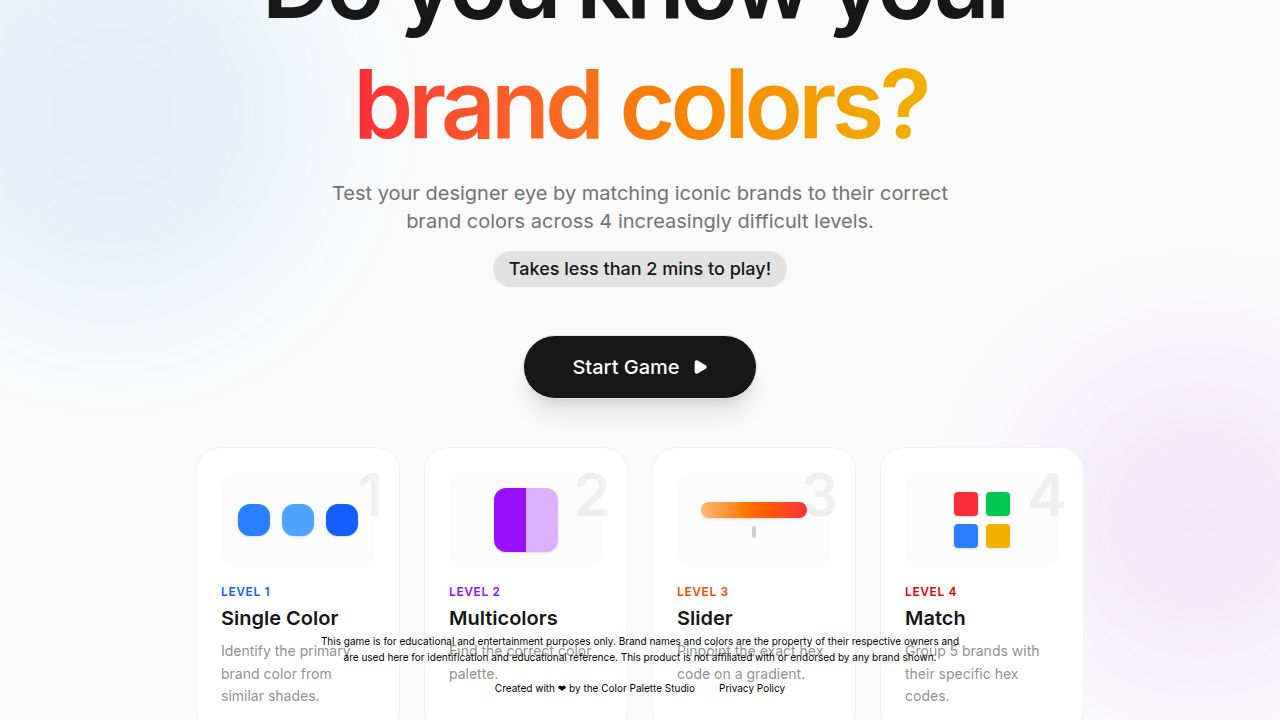
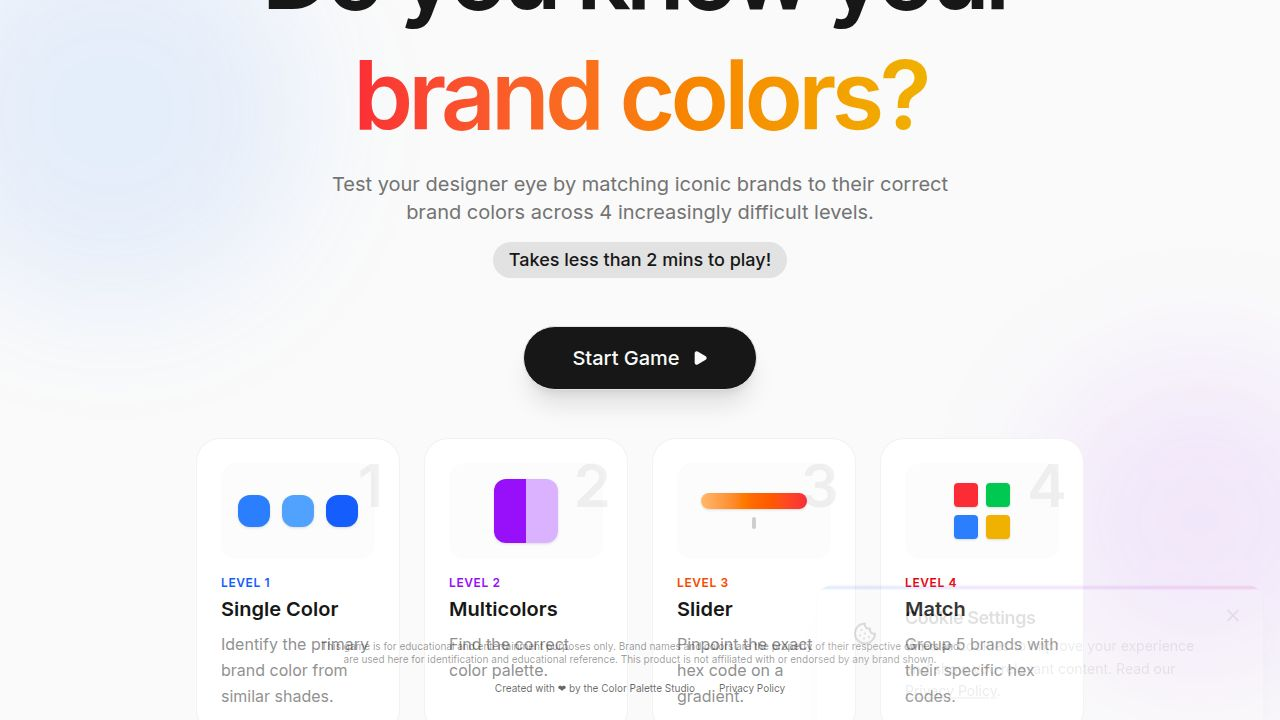
Adjust game layout for better display on laptop screens
Update text sizes, spacing, and button dimensions to optimize the game's appearance and usability on laptop displays.

Replit-Commit-Author: Agent
Replit-Commit-Session-Id: 7b4d5355-05d0-4bf4-9112-6de2160751e4
Replit-Commit-Checkpoint-Type: full_checkpoint
Replit-Commit-Event-Id: 854a3abb-9a40-4609-beec-3c17257e5483
Replit-Commit-Screenshot-Url: https://storage.googleapis.com/screenshot-production-us-central1/97f1e4b2-06ea-4ff0-b27d-b8547674b3d4/7b4d5355-05d0-4bf4-9112-6de2160751e4/GByG4RB
Replit-Helium-Checkpoint-Created: true

diff --git a/client/src/pages/home.tsx b/client/src/pages/home.tsx
@@ -321,34 +321,34 @@ export default function Home() {
             initial={{ opacity: 0, scale: 0.95 }}
             animate={{ opacity: 1, scale: 1 }}
             exit={{ opacity: 0, y: -20 }}
-            className="text-center flex flex-col h-full justify-center gap-4 md:gap-12"
+            className="text-center flex flex-col h-full justify-center gap-4 md:gap-8 xl:gap-12"
           >
-            <div className="space-y-2 md:space-y-4 shrink-0">
-              <h1 className="text-4xl md:text-8xl font-display font-bold tracking-tighter text-foreground leading-tight">
+            <div className="space-y-2 md:space-y-3 xl:space-y-4 shrink-0">
+              <h1 className="text-4xl md:text-6xl xl:text-8xl font-display font-bold tracking-tighter text-foreground leading-tight">
                 Do you know your <br/>
                 <span className="text-transparent bg-clip-text bg-gradient-to-r from-red-500 via-yellow-500 via-green-500 via-blue-500 to-purple-500 animate-gradient-x bg-[length:200%_200%]">brand colors?</span>
               </h1>
-              <p className="text-base md:text-xl text-muted-foreground max-w-2xl mx-auto px-4">
+              <p className="text-base md:text-lg xl:text-xl text-muted-foreground max-w-2xl mx-auto px-4">
                 Test your designer eye by matching iconic brands to their correct brand colors across 4 increasingly difficult levels.
-                <span className="block mt-2 md:mt-4 text-sm md:text-lg font-medium text-primary bg-primary/10 w-fit mx-auto px-4 py-1 rounded-full">
+                <span className="block mt-2 md:mt-3 xl:mt-4 text-sm md:text-base xl:text-lg font-medium text-primary bg-primary/10 w-fit mx-auto px-4 py-1 rounded-full">
                     Takes less than 2 mins to play!
                 </span>
               </p>
             </div>
 
             <div className="flex justify-center shrink-0">
-              <Button size="lg" onClick={startGame} className="h-12 md:h-16 px-8 md:px-12 text-lg md:text-xl rounded-full gap-3 shadow-xl hover:scale-105 transition-transform">
+              <Button size="lg" onClick={startGame} className="h-12 md:h-14 xl:h-16 px-8 md:px-10 xl:px-12 text-lg md:text-xl rounded-full gap-3 shadow-xl hover:scale-105 transition-transform">
                 Start Game <Play className="w-5 h-5 md:w-6 md:h-6 fill-current" />
               </Button>
             </div>
 
-            <div className="grid grid-cols-2 md:grid-cols-4 gap-2 md:gap-6 max-w-6xl mx-auto text-left text-sm text-muted-foreground overflow-y-auto md:overflow-visible px-1 flex-1 md:flex-none min-h-0 md:min-h-auto w-full">
+            <div className="grid grid-cols-2 md:grid-cols-4 gap-2 md:gap-4 xl:gap-6 max-w-6xl mx-auto text-left text-sm text-muted-foreground overflow-y-auto md:overflow-visible px-1 flex-1 md:flex-none min-h-0 md:min-h-auto w-full">
                {/* Level 1 Card */}
-               <div className="flex flex-col gap-1 md:gap-4 p-2 md:p-6 rounded-2xl md:rounded-3xl bg-card border border-border/50 hover:border-primary/20 hover:shadow-xl hover:-translate-y-1 transition-all duration-300 group cursor-default h-full relative overflow-hidden">
-                  <div className="absolute top-0 right-0 p-2 md:p-4 opacity-10 font-display font-bold text-4xl md:text-6xl group-hover:opacity-20 transition-opacity">1</div>
+               <div className="flex flex-col gap-1 md:gap-3 xl:gap-4 p-2 md:p-5 xl:p-6 rounded-2xl md:rounded-3xl bg-card border border-border/50 hover:border-primary/20 hover:shadow-xl hover:-translate-y-1 transition-all duration-300 group cursor-default h-full relative overflow-hidden">
+                  <div className="absolute top-0 right-0 p-2 md:p-4 opacity-10 font-display font-bold text-4xl md:text-5xl xl:text-6xl group-hover:opacity-20 transition-opacity">1</div>
                   
                   {/* Visual: 3 Similar Shades */}
-                  <div className="h-16 md:h-24 w-full bg-secondary/30 rounded-xl md:rounded-2xl flex items-center justify-center gap-2 md:gap-3 p-2 md:p-4 group-hover:bg-blue-50/50 transition-colors">
+                  <div className="h-16 md:h-20 xl:h-24 w-full bg-secondary/30 rounded-xl md:rounded-2xl flex items-center justify-center gap-2 md:gap-3 p-2 md:p-4 group-hover:bg-blue-50/50 transition-colors">
                       <div className="w-6 h-6 md:w-8 md:h-8 rounded-md md:rounded-lg bg-blue-500 shadow-sm transform group-hover:scale-110 transition-transform duration-500" />
                       <div className="w-6 h-6 md:w-8 md:h-8 rounded-md md:rounded-lg bg-blue-400 shadow-sm transform group-hover:scale-90 transition-transform duration-500 delay-75" />
                       <div className="w-6 h-6 md:w-8 md:h-8 rounded-md md:rounded-lg bg-blue-600 shadow-sm transform group-hover:scale-105 transition-transform duration-500 delay-150" />
@@ -356,17 +356,17 @@ export default function Home() {
                   
                   <div>
                       <div className="text-[10px] md:text-xs font-bold uppercase tracking-wider text-blue-600 mb-0.5 md:mb-1">Level 1</div>
-                      <span className="font-bold text-foreground block text-sm md:text-xl mb-1 md:mb-2">Single Color</span>
-                      <p className="text-[10px] md:text-base text-muted-foreground/80 leading-relaxed line-clamp-2 md:line-clamp-none">Identify the primary brand color from similar shades.</p>
+                      <span className="font-bold text-foreground block text-sm md:text-lg xl:text-xl mb-1 md:mb-2">Single Color</span>
+                      <p className="text-[10px] md:text-sm xl:text-base text-muted-foreground/80 leading-relaxed line-clamp-2 md:line-clamp-none">Identify the primary brand color from similar shades.</p>
                   </div>
                </div>
 
                {/* Level 2 Card */}
-               <div className="flex flex-col gap-1 md:gap-4 p-2 md:p-6 rounded-2xl md:rounded-3xl bg-card border border-border/50 hover:border-primary/20 hover:shadow-xl hover:-translate-y-1 transition-all duration-300 group cursor-default h-full relative overflow-hidden">
-                  <div className="absolute top-0 right-0 p-2 md:p-4 opacity-10 font-display font-bold text-4xl md:text-6xl group-hover:opacity-20 transition-opacity">2</div>
+               <div className="flex flex-col gap-1 md:gap-3 xl:gap-4 p-2 md:p-5 xl:p-6 rounded-2xl md:rounded-3xl bg-card border border-border/50 hover:border-primary/20 hover:shadow-xl hover:-translate-y-1 transition-all duration-300 group cursor-default h-full relative overflow-hidden">
+                  <div className="absolute top-0 right-0 p-2 md:p-4 opacity-10 font-display font-bold text-4xl md:text-5xl xl:text-6xl group-hover:opacity-20 transition-opacity">2</div>
 
                   {/* Visual: Split Card */}
-                  <div className="h-16 md:h-24 w-full bg-secondary/30 rounded-xl md:rounded-2xl flex items-center justify-center p-2 md:p-4 group-hover:bg-purple-50/50 transition-colors">
+                  <div className="h-16 md:h-20 xl:h-24 w-full bg-secondary/30 rounded-xl md:rounded-2xl flex items-center justify-center p-2 md:p-4 group-hover:bg-purple-50/50 transition-colors">
                       <div className="w-12 h-12 md:w-16 md:h-16 rounded-lg md:rounded-xl overflow-hidden flex shadow-sm group-hover:rotate-3 transition-transform duration-500">
                           <div className="w-1/2 h-full bg-purple-600" />
                           <div className="w-1/2 h-full bg-purple-300" />
@@ -375,17 +375,17 @@ export default function Home() {
 
                   <div>
                       <div className="text-[10px] md:text-xs font-bold uppercase tracking-wider text-purple-600 mb-0.5 md:mb-1">Level 2</div>
-                      <span className="font-bold text-foreground block text-sm md:text-xl mb-1 md:mb-2">Multicolors</span>
-                      <p className="text-[10px] md:text-base text-muted-foreground/80 leading-relaxed line-clamp-2 md:line-clamp-none">Find the correct color palette.</p>
+                      <span className="font-bold text-foreground block text-sm md:text-lg xl:text-xl mb-1 md:mb-2">Multicolors</span>
+                      <p className="text-[10px] md:text-sm xl:text-base text-muted-foreground/80 leading-relaxed line-clamp-2 md:line-clamp-none">Find the correct color palette.</p>
                   </div>
                </div>
 
                {/* Level 3 Card */}
-               <div className="flex flex-col gap-1 md:gap-4 p-2 md:p-6 rounded-2xl md:rounded-3xl bg-card border border-border/50 hover:border-primary/20 hover:shadow-xl hover:-translate-y-1 transition-all duration-300 group cursor-default h-full relative overflow-hidden">
-                  <div className="absolute top-0 right-0 p-2 md:p-4 opacity-10 font-display font-bold text-4xl md:text-6xl group-hover:opacity-20 transition-opacity">3</div>
+               <div className="flex flex-col gap-1 md:gap-3 xl:gap-4 p-2 md:p-5 xl:p-6 rounded-2xl md:rounded-3xl bg-card border border-border/50 hover:border-primary/20 hover:shadow-xl hover:-translate-y-1 transition-all duration-300 group cursor-default h-full relative overflow-hidden">
+                  <div className="absolute top-0 right-0 p-2 md:p-4 opacity-10 font-display font-bold text-4xl md:text-5xl xl:text-6xl group-hover:opacity-20 transition-opacity">3</div>
 
                   {/* Visual: Slider Gradient */}
-                  <div className="h-16 md:h-24 w-full bg-secondary/30 rounded-xl md:rounded-2xl flex flex-col items-center justify-center px-4 md:px-6 group-hover:bg-orange-50/50 transition-colors gap-1 md:gap-2">
+                  <div className="h-16 md:h-20 xl:h-24 w-full bg-secondary/30 rounded-xl md:rounded-2xl flex flex-col items-center justify-center px-4 md:px-6 group-hover:bg-orange-50/50 transition-colors gap-1 md:gap-2">
                        <div className="w-full h-2 md:h-4 rounded-full bg-gradient-to-r from-orange-300 via-orange-500 to-red-500 shadow-sm" />
                        <div className="w-full flex justify-center">
                            <div className="w-1 h-2 md:h-3 bg-foreground/20 rounded-full group-hover:translate-x-4 transition-transform duration-1000 ease-in-out" />
@@ -394,17 +394,17 @@ export default function Home() {
 
                   <div>
                       <div className="text-[10px] md:text-xs font-bold uppercase tracking-wider text-orange-600 mb-0.5 md:mb-1">Level 3</div>
-                      <span className="font-bold text-foreground block text-sm md:text-xl mb-1 md:mb-2">Slider</span>
-                      <p className="text-[10px] md:text-base text-muted-foreground/80 leading-relaxed line-clamp-2 md:line-clamp-none">Pinpoint the exact hex code on a gradient.</p>
+                      <span className="font-bold text-foreground block text-sm md:text-lg xl:text-xl mb-1 md:mb-2">Slider</span>
+                      <p className="text-[10px] md:text-sm xl:text-base text-muted-foreground/80 leading-relaxed line-clamp-2 md:line-clamp-none">Pinpoint the exact hex code on a gradient.</p>
                   </div>
                </div>
 
                {/* Level 4 Card */}
-               <div className="flex flex-col gap-1 md:gap-4 p-2 md:p-6 rounded-2xl md:rounded-3xl bg-card border border-border/50 hover:border-primary/20 hover:shadow-xl hover:-translate-y-1 transition-all duration-300 group cursor-default h-full relative overflow-hidden">
-                  <div className="absolute top-0 right-0 p-2 md:p-4 opacity-10 font-display font-bold text-4xl md:text-6xl group-hover:opacity-20 transition-opacity">4</div>
+               <div className="flex flex-col gap-1 md:gap-3 xl:gap-4 p-2 md:p-5 xl:p-6 rounded-2xl md:rounded-3xl bg-card border border-border/50 hover:border-primary/20 hover:shadow-xl hover:-translate-y-1 transition-all duration-300 group cursor-default h-full relative overflow-hidden">
+                  <div className="absolute top-0 right-0 p-2 md:p-4 opacity-10 font-display font-bold text-4xl md:text-5xl xl:text-6xl group-hover:opacity-20 transition-opacity">4</div>
 
                   {/* Visual: Grid Match */}
-                  <div className="h-16 md:h-24 w-full bg-secondary/30 rounded-xl md:rounded-2xl flex items-center justify-center p-2 md:p-4 group-hover:bg-red-50/50 transition-colors">
+                  <div className="h-16 md:h-20 xl:h-24 w-full bg-secondary/30 rounded-xl md:rounded-2xl flex items-center justify-center p-2 md:p-4 group-hover:bg-red-50/50 transition-colors">
                       <div className="grid grid-cols-2 gap-1.5 md:gap-2 group-hover:gap-3 transition-all duration-500">
                           <div className="w-4 h-4 md:w-6 md:h-6 rounded bg-red-500 shadow-sm" />
                           <div className="w-4 h-4 md:w-6 md:h-6 rounded bg-green-500 shadow-sm" />
@@ -415,8 +415,8 @@ export default function Home() {
 
                   <div>
                       <div className="text-[10px] md:text-xs font-bold uppercase tracking-wider text-red-600 mb-0.5 md:mb-1">Level 4</div>
-                      <span className="font-bold text-foreground block text-sm md:text-xl mb-1 md:mb-2">Match</span>
-                      <p className="text-[10px] md:text-base text-muted-foreground/80 leading-relaxed line-clamp-2 md:line-clamp-none">Group 5 brands with their specific hex codes.</p>
+                      <span className="font-bold text-foreground block text-sm md:text-lg xl:text-xl mb-1 md:mb-2">Match</span>
+                      <p className="text-[10px] md:text-sm xl:text-base text-muted-foreground/80 leading-relaxed line-clamp-2 md:line-clamp-none">Group 5 brands with their specific hex codes.</p>
                   </div>
                </div>
 
